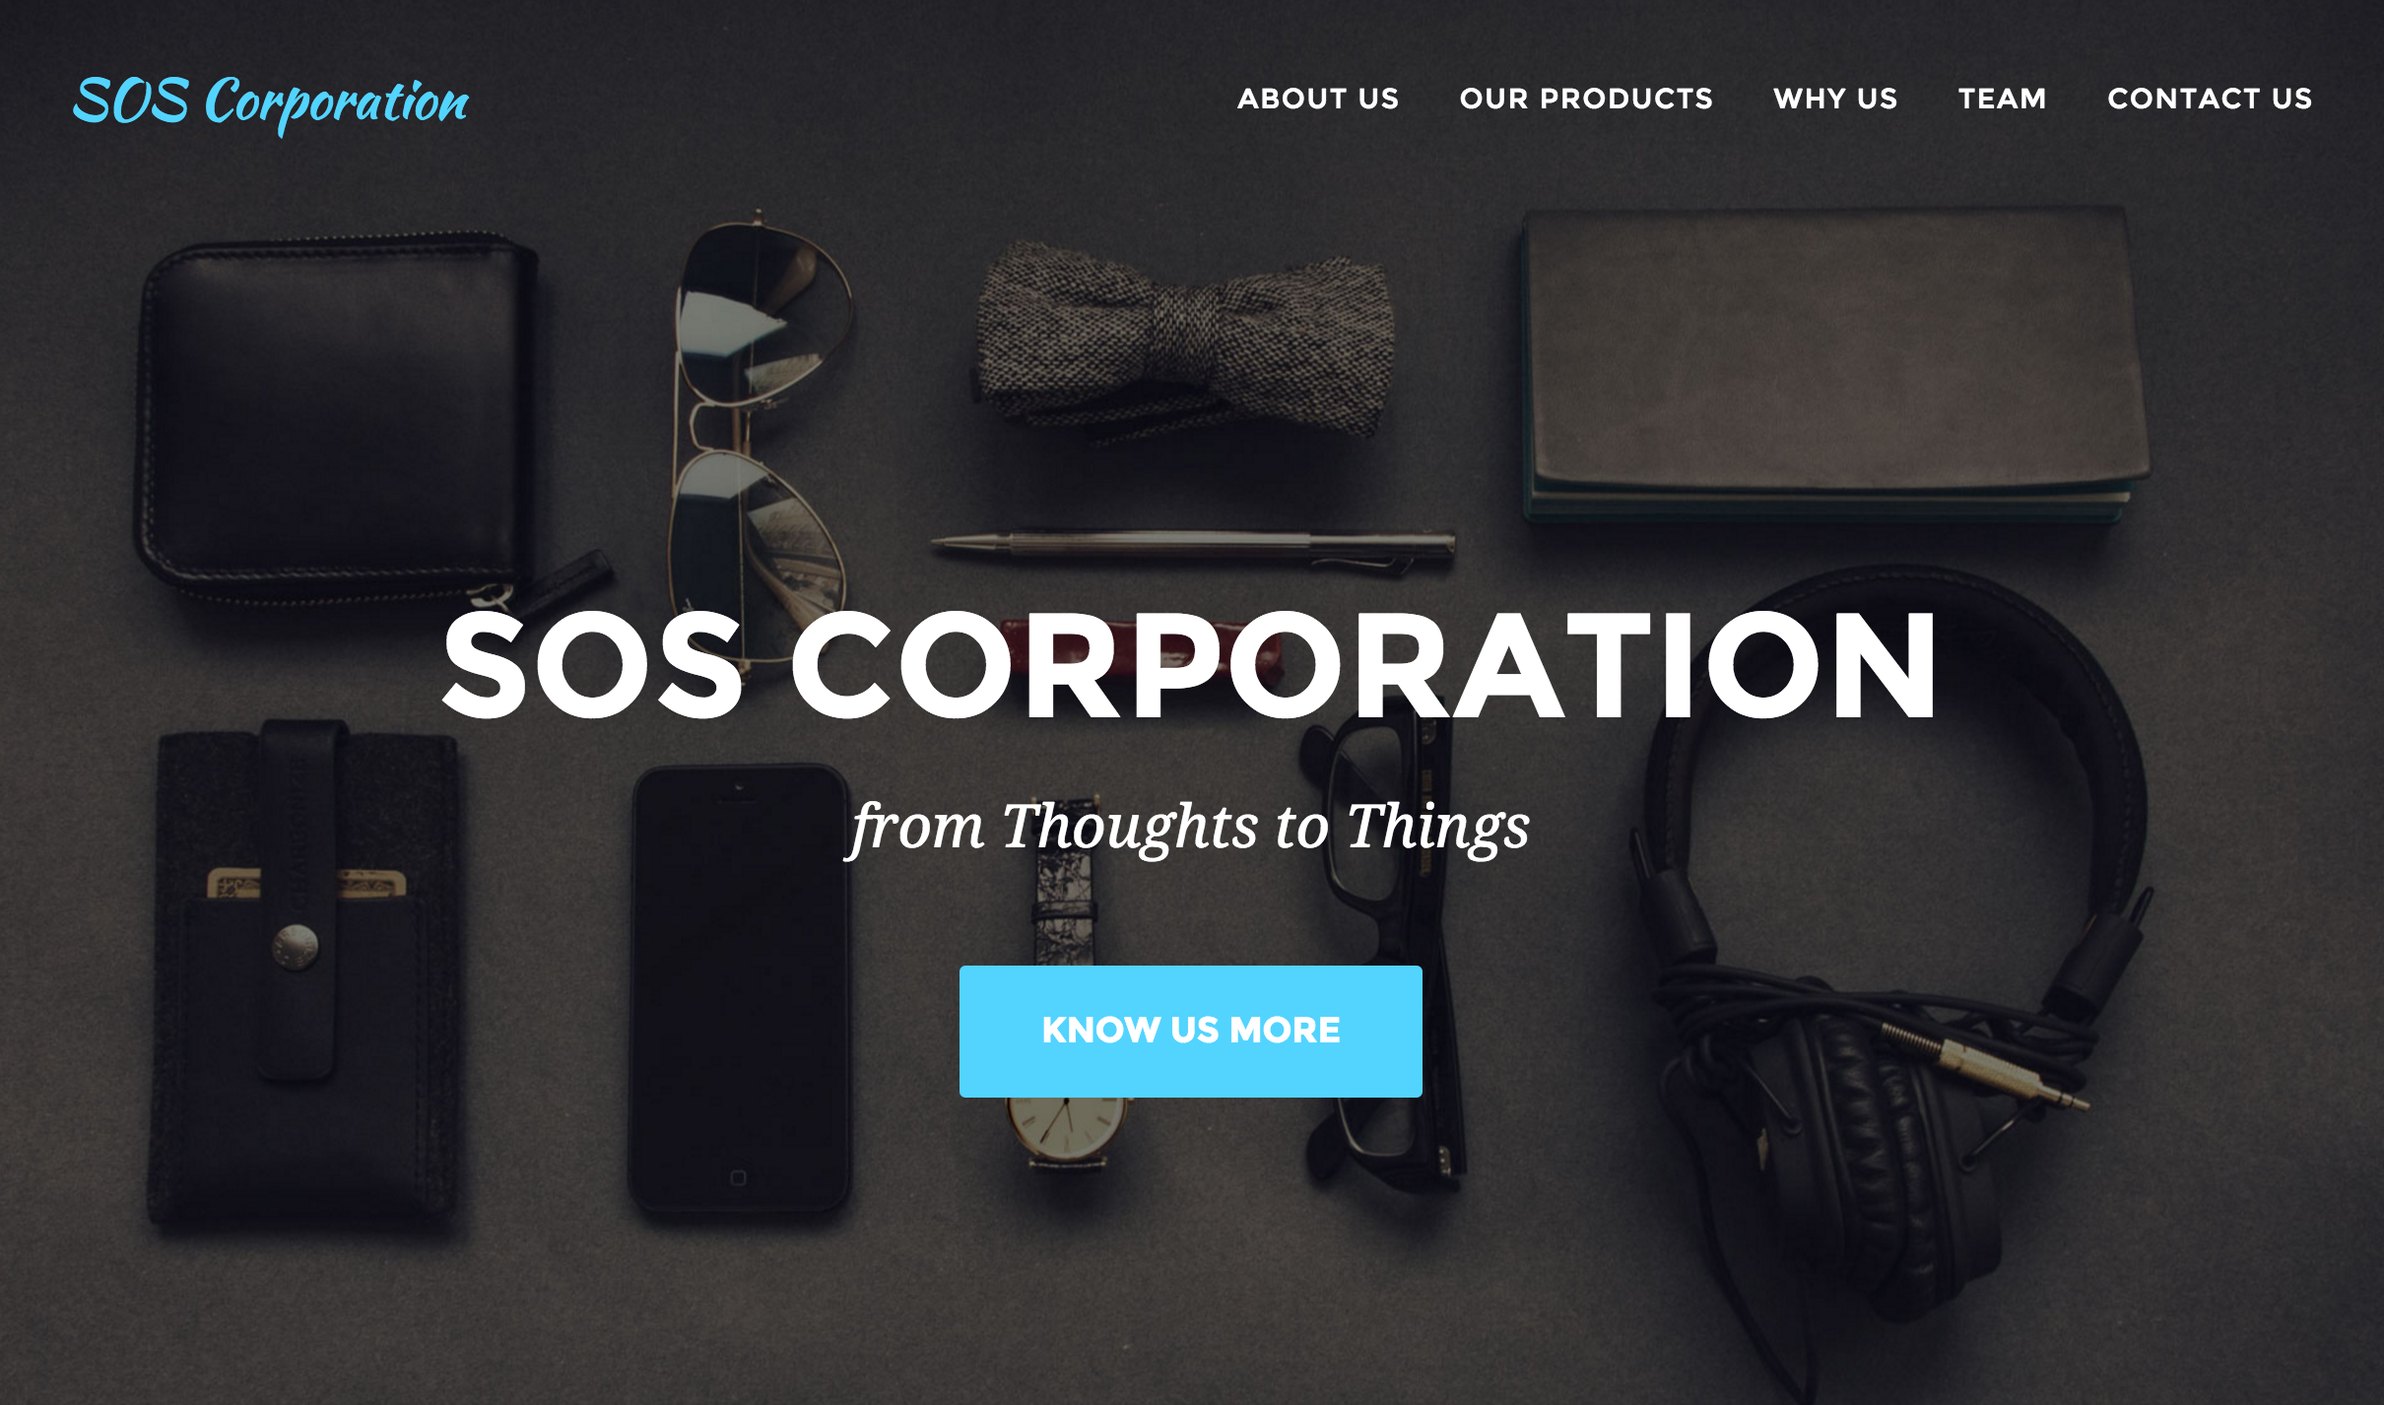
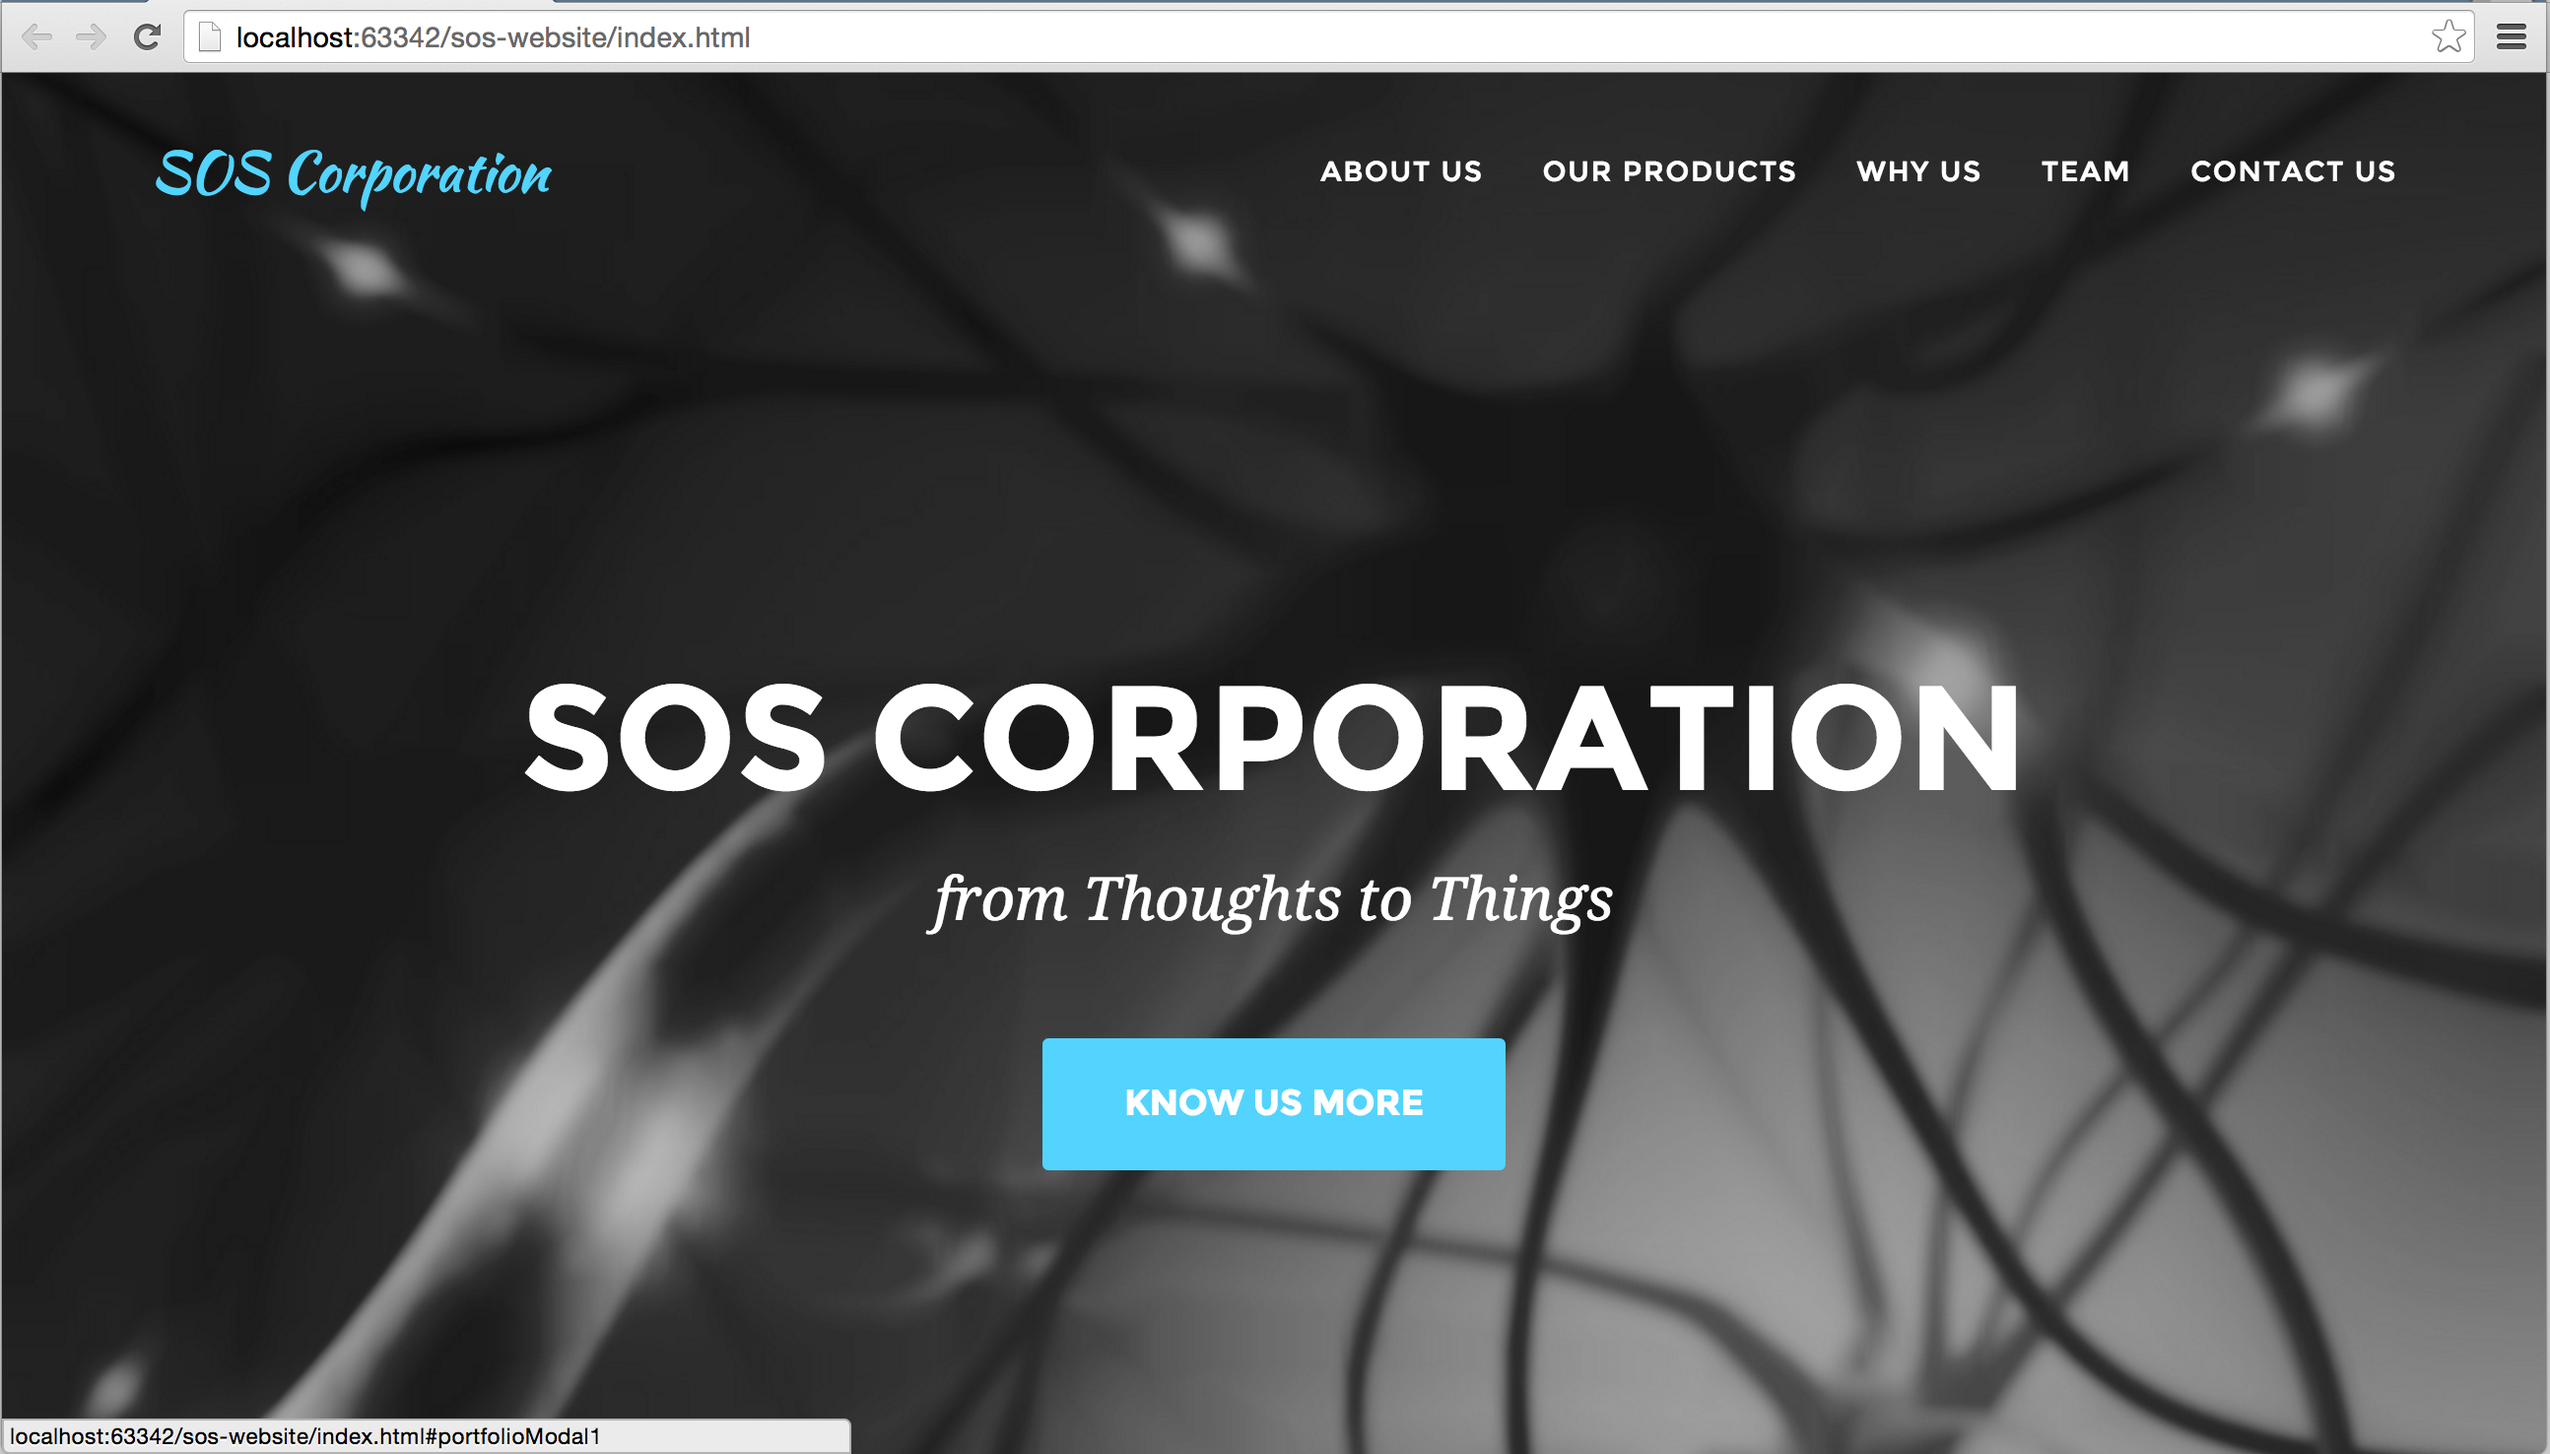
Adding changes for Products and Contact Us 1

diff --git a/README.md b/README.md
@@ -16,5 +16,9 @@ Screenshot of the website #3:
 
 ![ScreenShot](/screenshots/sos3.png)
 
+Screenshot of the website #4:
+
+![ScreenShot](/screenshots/sos4.png)
+
 
 
